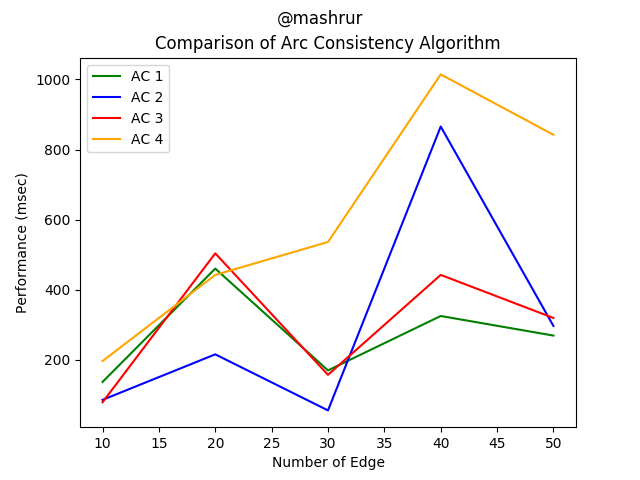
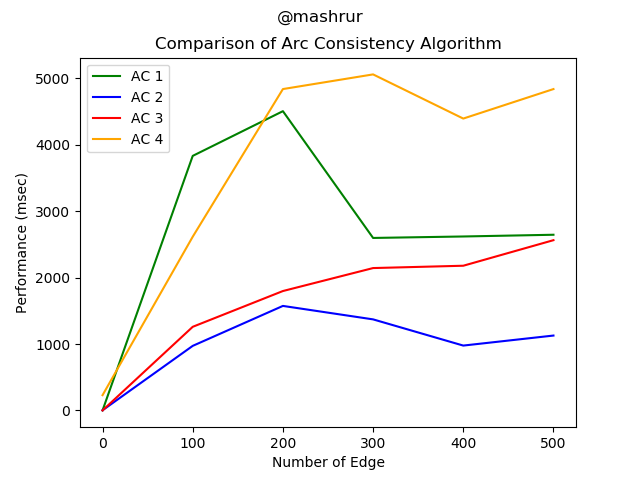
AC implemented

diff --git a/visualize.py b/visualize.py
@@ -89,7 +89,7 @@ def visualize_nodes(domainSiz):
     plt.show()
 
 
-def visualize_edge():
+def visualize_edge(domainSz):
     xAc1 = []
     yAc1 = []
     xAc2 = []
@@ -99,7 +99,17 @@ def visualize_edge():
     xAc4 = []
     yAc4 = []
 
-    for edge in range(10, 51, 10):
+    xAc1.append(0)
+    xAc2.append(0)
+    xAc3.append(0)
+    xAc4.append(0)
+
+    yAc1.append(0)
+    yAc2.append(0)
+    yAc3.append(0)
+    yAc4.append(0)
+
+    for edge in range(0, 510, 100):
         print(edge)
         xAc1.append(edge)
         xAc2.append(edge)
@@ -110,28 +120,34 @@ def visualize_edge():
         timeAc2 = 0
         timeAc3 = 0
         timeAc4 = 0
-        domainSize = 100
-        node = 10
-        constraints = {}
-        domain = [[0 for x in range(domainSize)] for y in range(node)]  # node x domainSize size list
+        domainSize = domainSz
+        node = 100
 
-        g = nw.gnm_random_graph(node, edge, False)
+        for p in range(10):
+            constraints = {}
+            domain = [[0 for x in range(domainSize)] for y in range(node)]  # node x domainSize size list
 
-        for i in g.edges:
-            constraints[i] = random.randint(0, 10)
-            constraints[(i[1], i[0])] = constraints[i] + lim
+            g = nw.gnm_random_graph(node, edge, False)
 
-        for i in range(node):
-            for j in range(domainSize):
-                domain[i][j] = randInt(1, 100)
+            for i in g.edges:
+                constraints[i] = random.randint(0, 10)
+                constraints[(i[1], i[0])] = constraints[i] + lim
 
-
-        timeAc1 += executeAC1(node, edge, domainSize, deepcopy(g), deepcopy(constraints), deepcopy(domain))
-        timeAc2 += executeAC2(node, edge, domainSize, deepcopy(g), deepcopy(constraints), deepcopy(domain))
-        timeAc3 += executeAC3(node, edge, domainSize, deepcopy(g), deepcopy(constraints), deepcopy(domain))
-        timeAc4 += executeAC4(node, edge, domainSize, deepcopy(g), deepcopy(constraints), deepcopy(domain))
+            for i in range(node):
+                for j in range(domainSize):
+                    domain[i][j] = randInt(1, 100)
 
 
+            timeAc1 += executeAC1(node, edge, domainSize, deepcopy(g), deepcopy(constraints), deepcopy(domain))
+            timeAc2 += executeAC2(node, edge, domainSize, deepcopy(g), deepcopy(constraints), deepcopy(domain))
+            timeAc3 += executeAC3(node, edge, domainSize, deepcopy(g), deepcopy(constraints), deepcopy(domain))
+            timeAc4 += executeAC4(node, edge, domainSize, deepcopy(g), deepcopy(constraints), deepcopy(domain))
+
+
+        timeAc1 /= 10
+        timeAc2 /= 10
+        timeAc3 /= 10
+        timeAc4 /= 10
         yAc1.append(timeAc1)
         yAc2.append(timeAc2)
         yAc3.append(timeAc3)
@@ -146,7 +162,7 @@ def visualize_edge():
     plt.title('Comparison of Arc Consistency Algorithm')
     plt.suptitle('@mashrur')
     plt.legend(loc='upper left')
-    # plt.savefig('foo_edge.png')
+    plt.savefig('edge_small_domain.png')
     plt.show()
 
 

diff --git a/main.py b/main.py
@@ -34,7 +34,7 @@ def executeAC4(node, edge, domainSize, g, constraints, domain):
 
 if __name__ == '__main__':
     #vis.visualize_density(100)
-    #vis.visualize_edge()
-    vis.visualize_domainReduction(30)
+    vis.visualize_edge(20)
+    #vis.visualize_domainReduction(30)
     print('---- DONE ----')
 
